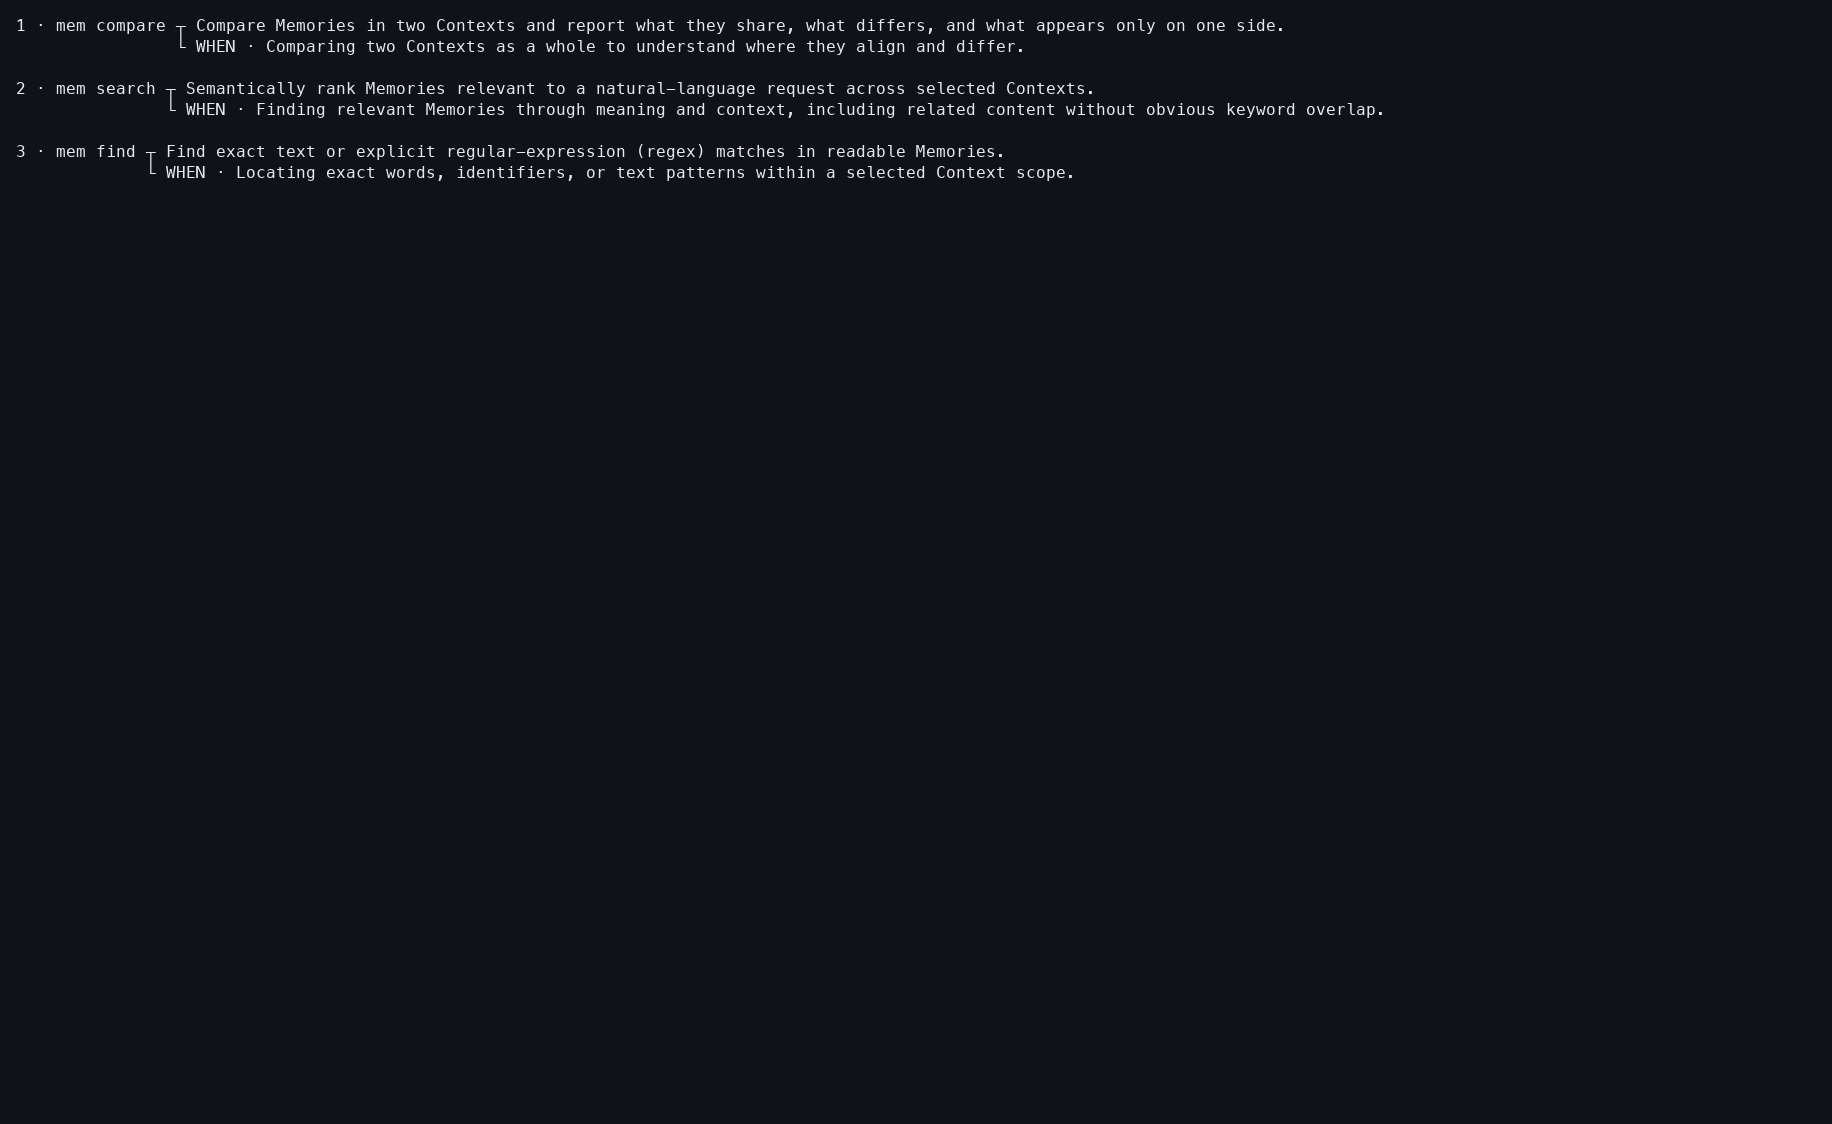
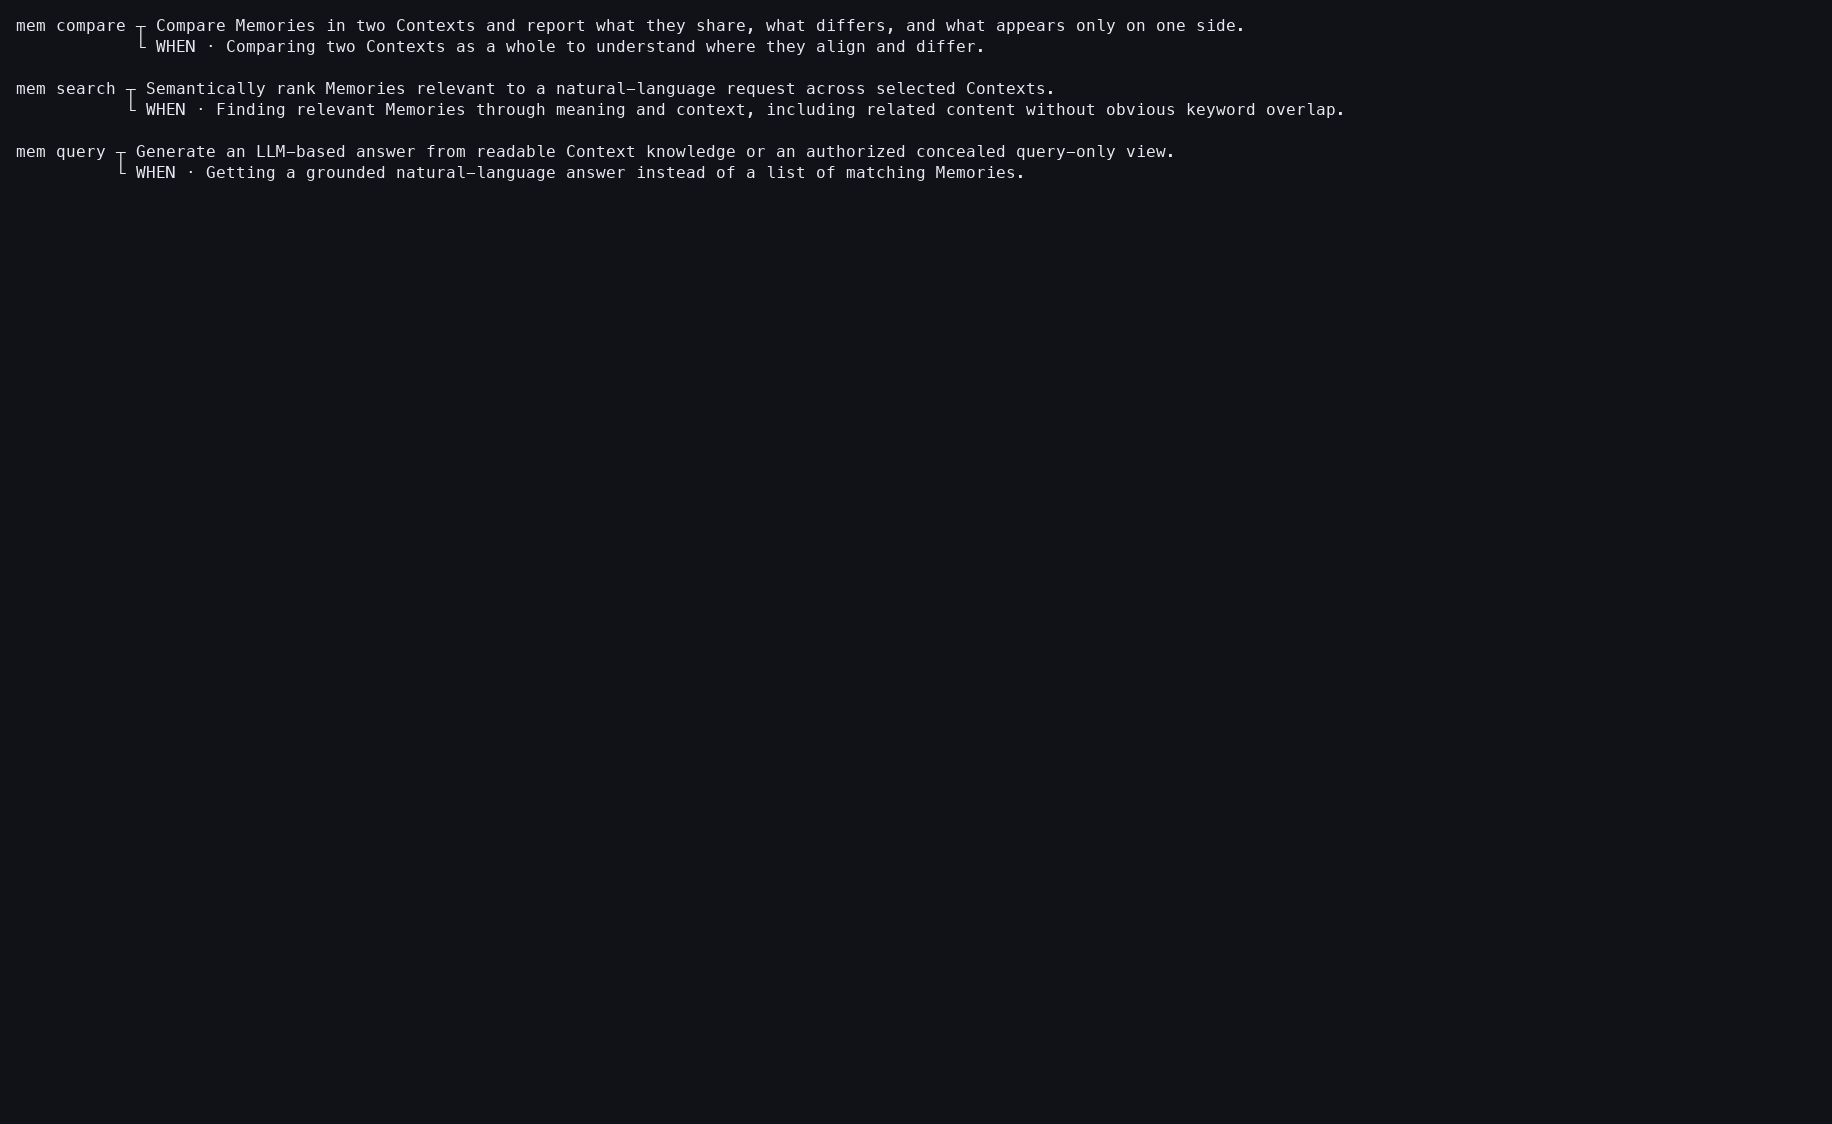
Remove visible Help candidate ranks
Natural-language Help still requires exactly three distinct catalog operations and preserves provider semantic order, but each collapsed row now starts directly with its canonical mem command instead of an ordinal and separator. This retains the exploratory three-option condition while avoiding an explicit ranking cue; display-position primacy remains an intentional study limitation.

Update renderer tests, Help rationale and boundary records, and the 180x52 PTY evidence to match the unnumbered presentation.

Changed region(s): [[0.0, 0.0, 0.6845, 0.1557], [0.6223, 0.0934, 0.7467, 0.1246]]

diff --git a/tests/test_help_lookup_cli.py b/tests/test_help_lookup_cli.py
@@ -42,7 +42,7 @@ def _invoke(*args: str):
     )
 
 
-def test_help_request_renders_three_ranked_existing_description_when_rows(monkeypatch):
+def test_help_request_renders_three_ordered_existing_description_when_rows(monkeypatch):
     provider = _Provider(
         '{"operations":["compare","search","query"]}'
     )
@@ -53,11 +53,14 @@ def test_help_request_renders_three_ranked_existing_description_when_rows(monkey
     assert result.exit_code == 0
     assert result.stderr == ""
     assert provider.calls == 1
-    assert "1 · mem compare ┬ Compare Memories in two Contexts" in result.stdout
+    assert "mem compare ┬ Compare Memories in two Contexts" in result.stdout
     assert "└ WHEN · Comparing two Contexts as a whole" in result.stdout
-    assert "2 · mem search ┬ Semantically rank Memories" in result.stdout
+    assert "mem search ┬ Semantically rank Memories" in result.stdout
     assert "└ WHEN · Finding relevant Memories through meaning" in result.stdout
-    assert "3 · mem query ┬ Generate an LLM-based answer" in result.stdout
+    assert "mem query ┬ Generate an LLM-based answer" in result.stdout
+    assert "1 ·" not in result.stdout
+    assert "2 ·" not in result.stdout
+    assert "3 ·" not in result.stdout
     assert result.stdout.index("mem compare") < result.stdout.index("mem search")
     assert result.stdout.index("mem search") < result.stdout.index("mem query")
     assert "WHY" not in result.stdout

diff --git a/docs/screenshots/mem-help-natural-language-20260820/capture.py b/docs/screenshots/mem-help-natural-language-20260820/capture.py
@@ -91,12 +91,12 @@ def _assert_focused_contract(plain: str, expected_names: tuple[str, ...]) -> Non
         assert name in plain
     positions = [plain.index(name) for name in expected_names]
     assert positions == sorted(positions)
-    ranked_names = re.findall(
-        r"(?m)^([123]) · mem ([a-z][a-z0-9-]*) ",
+    ordered_names = re.findall(
+        r"(?m)^mem ([a-z][a-z0-9-]*) ",
         plain,
     )
-    assert [rank for rank, _name in ranked_names] == ["1", "2", "3"]
-    assert len({name for _rank, name in ranked_names}) == 3
+    assert len(ordered_names) == 3
+    assert len(set(ordered_names)) == 3
     assert "WHEN ·" in plain
     for forbidden in (
         "WHY",

diff --git a/memcommit/interfaces/tui/operations/help/inventory.py b/memcommit/interfaces/tui/operations/help/inventory.py
@@ -1174,10 +1174,10 @@ def render_help_lookup_entries(
         return "No Help candidates available."
     width = max(40, content_width)
     rendered: list[str] = []
-    for rank, entry in enumerate(entries, start=1):
+    for entry in entries:
         rows = _help_command_rows(
             entry,
-            command_prefixes=(f"{rank} · mem {entry.name} ",),
+            command_prefixes=(f"mem {entry.name} ",),
             content_width=width,
             language=language,
         )

diff --git a/docs/help-application-boundary-matrix.md b/docs/help-application-boundary-matrix.md
@@ -14,7 +14,7 @@ checkpoint, or Undo lifecycle.
 | --- | --- | --- | --- | --- | --- |
 | Plain `mem help` | `interfaces.tui.operations.help.inventory.cmd` in a non-TTY | `command_entries` takes `list_operation_help()` once | Plain alphabetized inventory plus CLI-owned forms, maturity tags, and canonical expanded details | None | `test_help_catalog.py`, `test_help_application.py` |
 | Interactive `mem help` | Same command in a TTY | Same frozen application snapshot | Grouped/A–Z browser; collapsed maturity tags; expanded typed details | None | Help renderer tests, `docs/screenshots/mem-help-import-query-details-20260816/`, and the full reviewed sequence in `docs/screenshots/mem-help-reviewed-content-20260816/` |
-| Natural-language `mem help REQUEST` | Same command with one positional request in TTY or non-TTY | `prepare_help_lookup` freezes and preflights the complete catalog before `connect_help_provider`; `execute_help_lookup` requires exactly three distinct exact IDs | Three existing collapsed Help rows in semantic order: visible rank, `mem NAME`, summary, and `WHEN`; no browser, why, confidence, forms, or generated prose | None | `test_help_lookup_application.py`, `test_help_lookup_cli.py`, `test_help_lookup_provider_policy.py` |
+| Natural-language `mem help REQUEST` | Same command with one positional request in TTY or non-TTY | `prepare_help_lookup` freezes and preflights the complete catalog before `connect_help_provider`; `execute_help_lookup` requires exactly three distinct exact IDs | Three existing collapsed Help rows in semantic order: `mem NAME`, summary, and `WHEN`; no ordinal, browser, why, confidence, forms, or generated prose | None | `test_help_lookup_application.py`, `test_help_lookup_cli.py`, `test_help_lookup_provider_policy.py` |
 | Shell selection | Hidden `--emit-selection` route | Same frozen application snapshot | One interface-owned command template on stdout | None | Existing Help selection tests |
 | Selected CLI detail | One `CommandEntry` from the snapshot | Catalog meaning already bound to the entry | Common meaning composed with registered CLI syntax | None | `test_help_catalog.py` |
 | Python list | `MemCommitClient.list_operations()` | `_operations.help.list_operations` → `list_operation_help` | `HelpCatalogResult` of immutable DTOs, including compact typed-detail references | None | `test_help_public_api.py`, import-boundary tests |
@@ -50,8 +50,8 @@ checkpoint, or Undo lifecycle.
    connection; uses `gpt-5.6-sol` with reasoning effort `none`; declares
    `TOP_K_RERANK`; and publishes no partial or prefiltered result.
 9. Lookup output is exactly three unique exact catalog names. The interface
-   supplies their visible ordinal ranks plus canonical summary and best-for
-   copy only after validation; the model cannot add reasons, confidence,
+   preserves their semantic order and supplies canonical summary and best-for
+   copy only after validation, without ordinal labels; the model cannot add reasons, confidence,
    explanations, command forms, or prose. Semantic order is not randomized, so
    fitness and display-position effects remain an intentional study limitation.
 10. Agent/MCP Help is discovery only. It cannot execute another tool or confer

diff --git a/docs/screenshots/mem-help-natural-language-20260820/README.md b/docs/screenshots/mem-help-natural-language-20260820/README.md
@@ -35,8 +35,8 @@ from provider-written prose.
 | Image | Exact command | Visible state | Durable mutation |
 | --- | --- | --- | --- |
 | `00a-campus-wiki-thinking.png` | `mem help "how can I update those campus wiki from mine?"` | The provider-backed lookup is pending and the in-place `MEM HELP · 1/1 · THINKING` liveness line is visible | None |
-| `00b-campus-wiki-result.png` | Same running command; no additional input | The transient line has been erased; Update leads three ranked compact candidates | None |
-| `01-ranked-compare.png` | `mem help "두 Context의 차이를 보고 싶어"` | Compare leads three ranked candidates; every row contains only ordinal, command, authored description, and authored `WHEN` | None |
+| `00b-campus-wiki-result.png` | Same running command; no additional input | The transient line has been erased; Update leads three ordered compact candidates | None |
+| `01-ranked-compare.png` | `mem help "두 Context의 차이를 보고 싶어"` | Compare leads three ordered candidates; every row contains only command, authored description, and authored `WHEN` | None |
 | `02-ranked-compare-search.png` | `mem help "두 Context를 비교하고 관련 Memories도 의미로 찾고 싶어"` | Compare and Search appear in semantic order inside one fixed three-candidate frame | None |
 | `03-ranked-metaphorical-conflict.png` | `mem help "메모리들이 서로 싸우고 있는지 좀 봐줘"` | Find Conflicts leads the three candidates selected from metaphorical language | None |
 | `04-ranked-unrelated.png` | `mem help "🦆 보라색 냉장고가 달에서 왈츠를 춘다 ??? 123"` | Even unrelated wording receives three closest exploratory catalog possibilities | None |
@@ -44,7 +44,7 @@ from provider-written prose.
 | `06-study-exact-copy-blocked.png` | `mem help "Generate an LLM-based answer from readable Context knowledge or an authorized concealed query-only view."` | The exact Query Description is rejected at the Study-only 50% copy boundary before provider connection | None |
 
 All six provider-backed commands exit successfully after one bounded semantic
-lookup each and expose exactly three distinct visible ranks. None opens a Store,
+lookup each and expose exactly three distinct operation rows. None opens a Store,
 reads a Context or Memory, executes a suggested operation, or persists the
 selection. The capture assertions reject expanded `WHY`, `FLOW`, `EFFECT`,
 Form, Overview, and Command line content.

diff --git a/docs/mem-help-design-rationale.md b/docs/mem-help-design-rationale.md
@@ -36,14 +36,14 @@ policy is `gpt-5.6-sol` with reasoning effort `none`. The model selects IDs
 only; it cannot author the visible description, best-for text, explanation,
 score, command form, or rationale.
 
-Each validated candidate is rendered with its semantic rank and the existing
-collapsed Help record:
+Each validated candidate is rendered in semantic order as the existing
+collapsed Help record, without an explicit ordinal label:
 
 ```text
-1 · mem compare ┬ Compare Memories in two Contexts and report what they share,
-                │ what differs, and what appears only on one side.
-                └ WHEN · Comparing two Contexts as a whole to understand where
-                         they align and differ.
+mem compare ┬ Compare Memories in two Contexts and report what they share,
+            │ what differs, and what appears only on one side.
+            └ WHEN · Comparing two Contexts as a whole to understand where
+                     they align and differ.
 ```
 
 The first candidate is the strongest semantic fit. When fewer than three
@@ -57,12 +57,13 @@ overview, forms, or execution action. The focused lookup exits after the three
 rows; it does not open the full-screen browser, create a transcript, read a
 Store or Memory, or execute any candidate.
 
-Visible order is not randomized or counterbalanced. Semantic rank and display
-position therefore coincide intentionally. This keeps the interface and study
-condition simple, but it means later analysis cannot separate semantic fitness
-from primacy or rank-label effects. Candidate selection by rank may be reported
-descriptively; position bias is a recorded limitation rather than a separate
-experimental manipulation.
+Visible order is not randomized or counterbalanced. Semantic fitness and
+display position therefore coincide intentionally, even though the interface
+does not print ordinal labels. This keeps the interface and study condition
+simple, but it means later analysis cannot separate semantic fitness from
+primacy. Candidate selection by display position may be reported descriptively;
+position bias is a recorded limitation rather than a separate experimental
+manipulation.
 
 Direct matching is semantic rather than a catalog-vocabulary gate. A short,
 colloquial, metaphorical, or fragmentary request may match when its intended

diff --git a/docs/help-application-design-rationale.md b/docs/help-application-design-rationale.md
@@ -80,9 +80,9 @@ When a positional request is supplied, `mem help REQUEST` bypasses the full
 browser, performs one lookup, and renders each selected operation through the
 same collapsed command-row projection already used by interactive Help. Each
 row contains only `mem NAME`, the canonical summary, and canonical `WHEN`
-(`best_for`) text. Results retain provider order and receive visible ordinal
-rank `1` through `3`; no confidence or generated rationale is shown. The
-command exits after rendering. Bare `mem help`, shell selection, exact
+(`best_for`) text. Results retain provider order without a visible ordinal
+label; no confidence or generated rationale is shown. The command exits after
+rendering. Bare `mem help`, shell selection, exact
 Python/agent Help, and MCP discovery retain their existing deterministic
 behavior and do not connect a provider.
 
